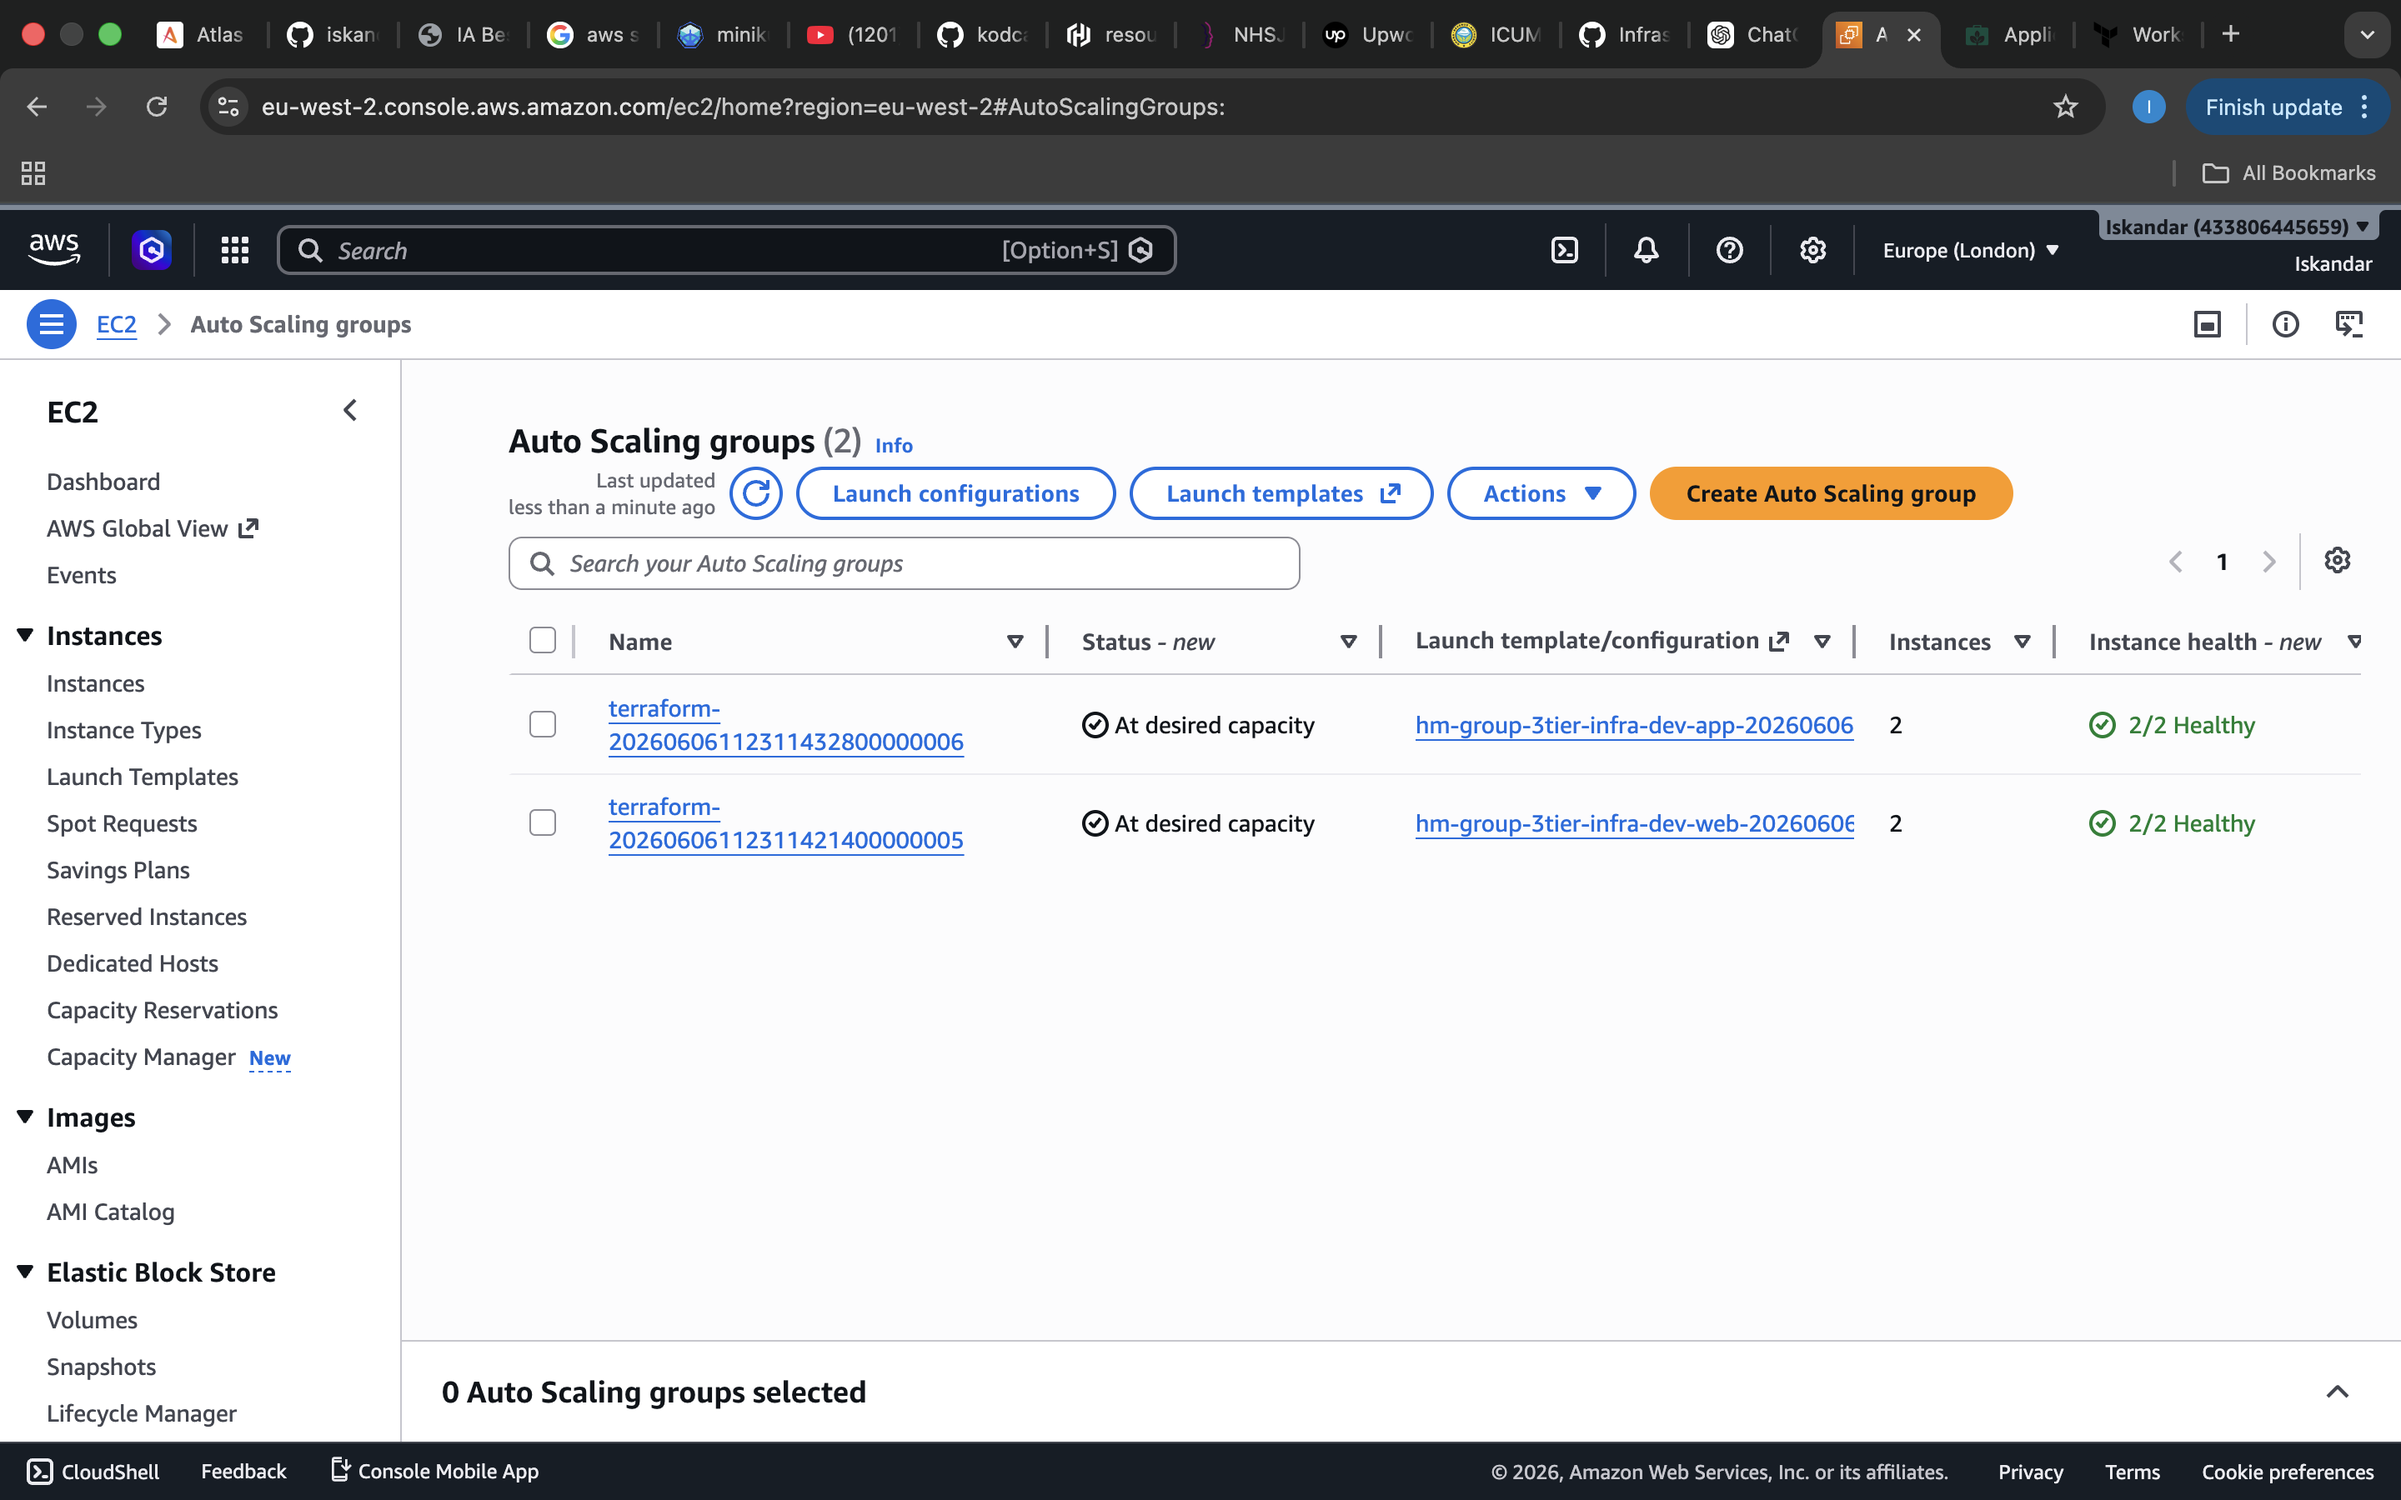
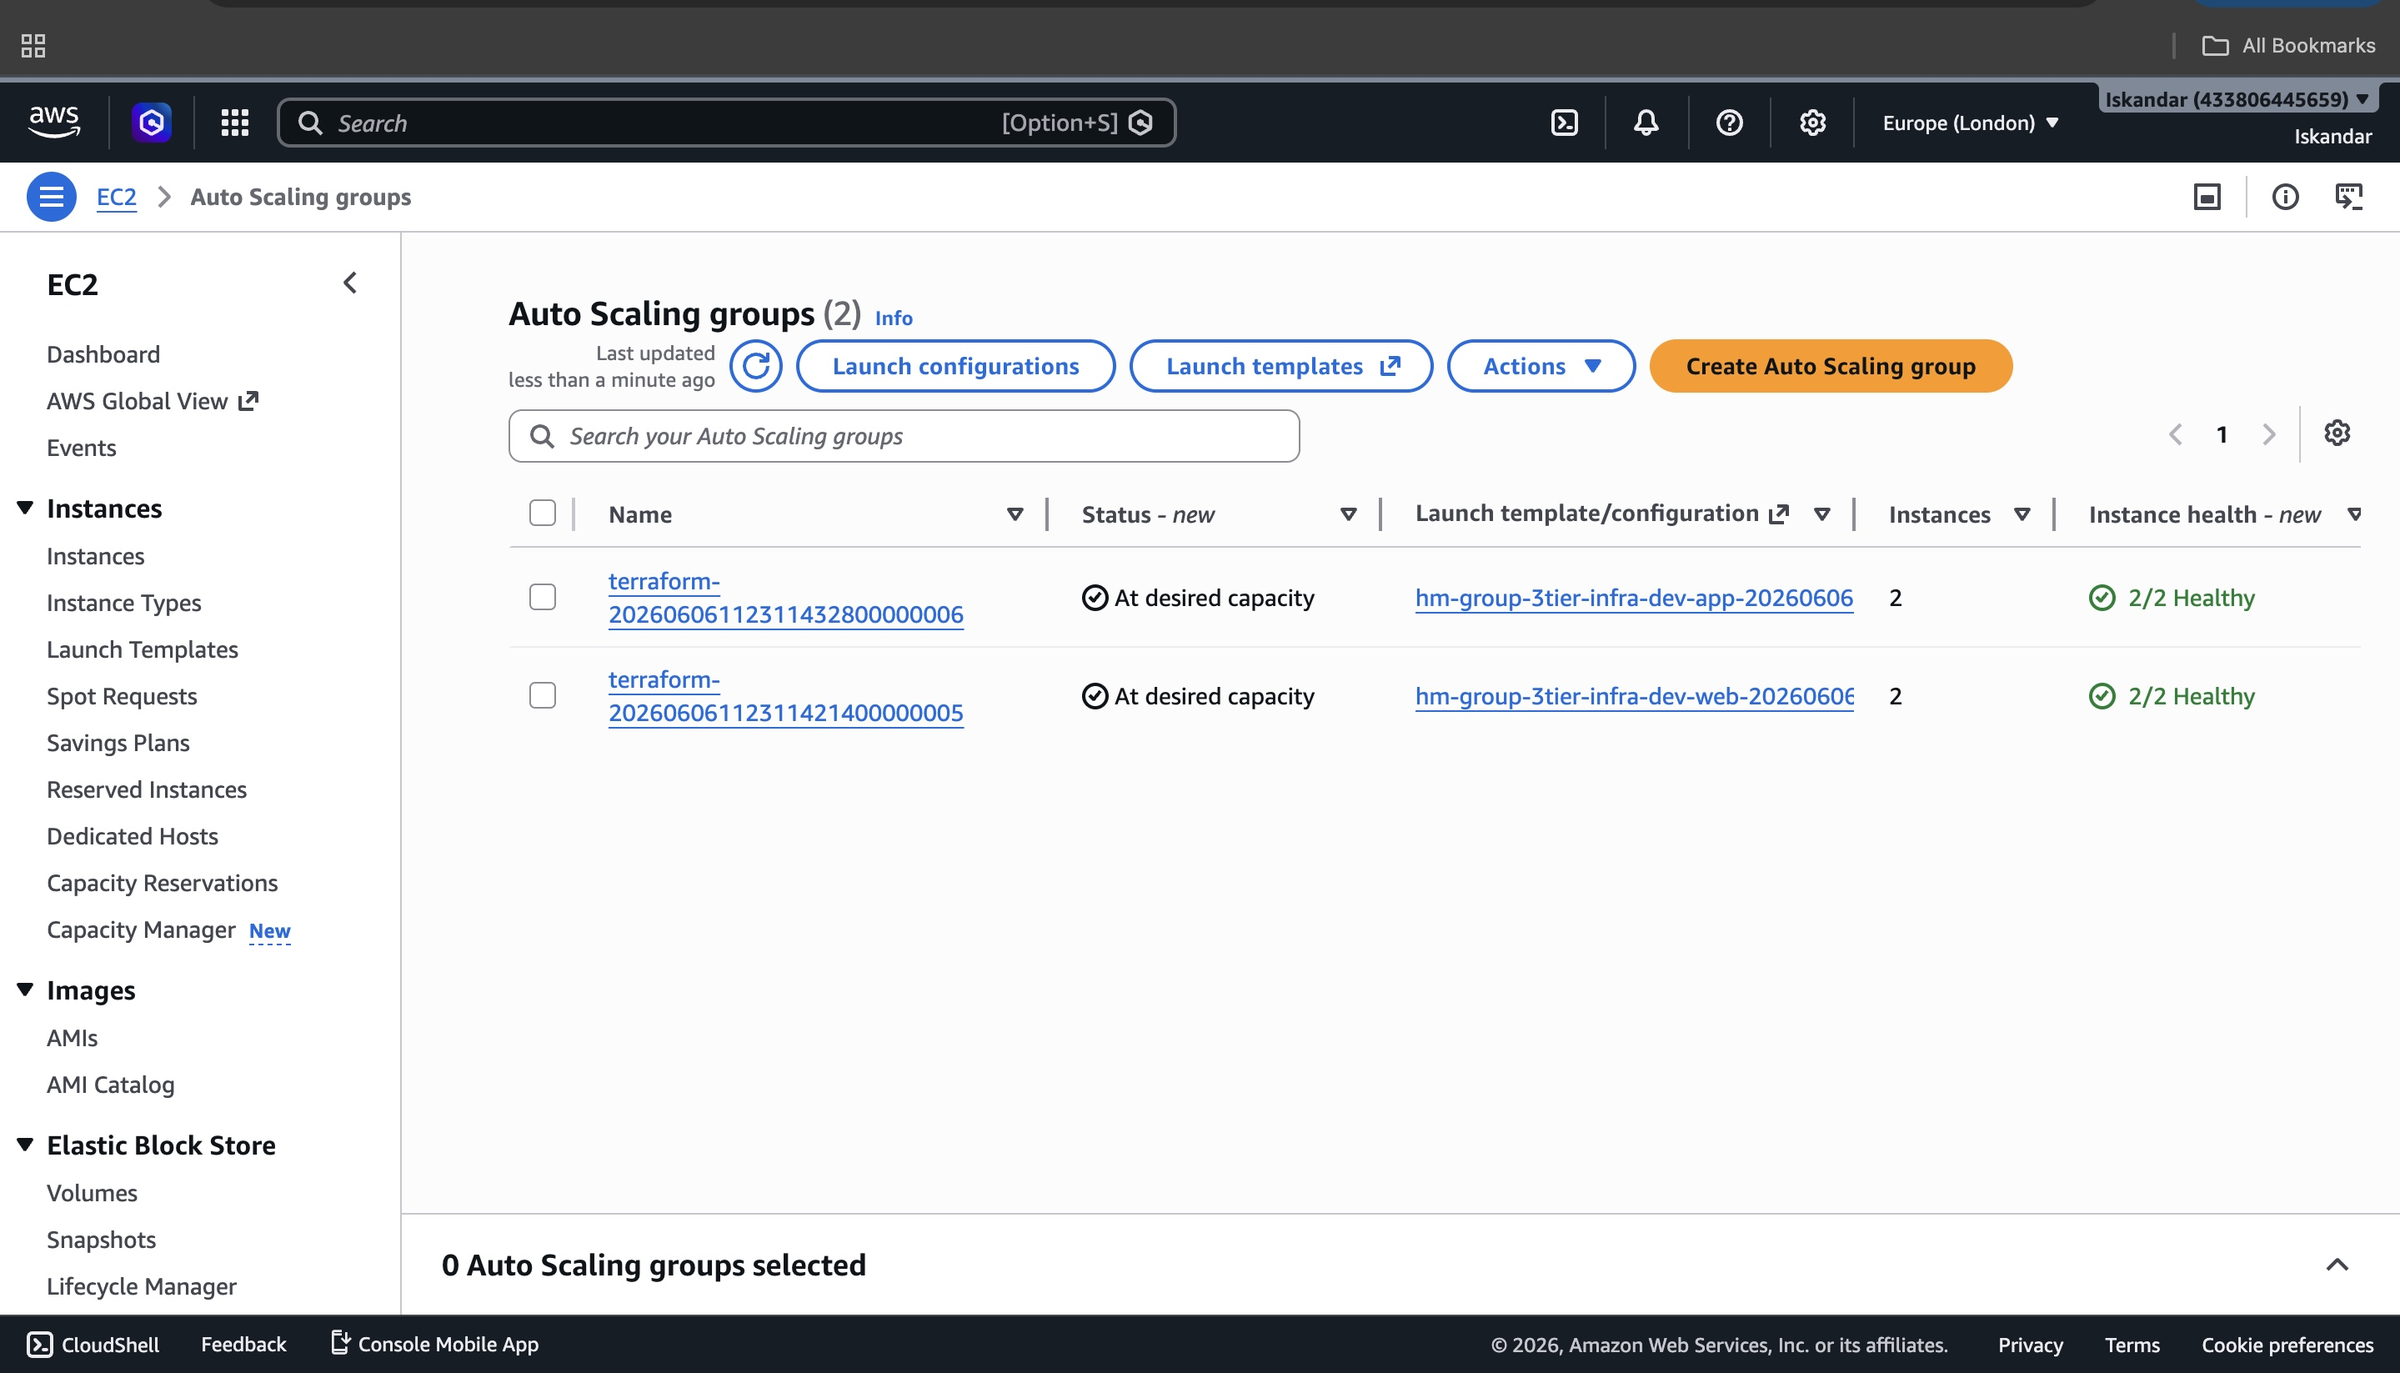
Complete project documentation and module READMEs

diff --git a/README.md b/README.md
@@ -53,3 +53,63 @@ Infrastructure is distributed across two Availability Zones for high availabilit
 * Enforce infrastructure security checks
 * Implement enterprise DevOps practices
 * Demonstrate production-grade AWS architecture
+
+## 📸 Project Screenshots
+
+### 1. GitHub Repository Structure
+
+![GitHub Repository Structure](screenshots/01-github-repo-structure.png)
+
+---
+
+### 2. Terraform Plan Output
+
+![Terraform Plan](screenshots/02-terraform-plan-pr.png)
+
+---
+
+### 3. GitHub Actions CI/CD Pipeline
+
+![GitHub Actions Pipeline](screenshots/03-github-actions-pipeline-a.png)
+
+---
+
+### 4. tfsec Security Scan Results
+
+![tfsec Scan Results](screenshots/04-tfsec-scan-results.png)
+
+---
+
+### 5. Checkov Security Scan Results
+
+![Checkov Scan Results](screenshots/05-checkov-scan-results.png)
+
+---
+
+### 6. Pre-commit Hooks Execution
+
+![Pre-commit Hooks](screenshots/06-pre-commit-hooks-run.png)
+
+---
+
+### 7. AWS VPC Deployment
+
+![AWS VPC](screenshots/07-aws-console-vpc.png)
+
+---
+
+### 8. EC2 Auto Scaling Groups
+
+![EC2 ASG](screenshots/08-aws-console-ec2-asg.png)
+
+---
+
+### 9. Multi-AZ RDS Deployment
+
+![RDS Multi-AZ](screenshots/09-aws-console-rds-multiaz.png)
+
+---
+
+### 10. Application Load Balancers
+
+![Application Load Balancers](screenshots/10-aws-console-alb.png)

diff --git a/modules/alb/README.md b/modules/alb/README.md
@@ -1,0 +1,21 @@
+# ALB Module
+
+## Purpose
+
+This module provisions Application Load Balancers for the HM Group 3-tier AWS infrastructure.
+
+## Resources Created
+
+- Public Application Load Balancer
+- Internal Application Load Balancer
+- Web target group
+- App target group
+- HTTP listeners
+- Health checks
+
+## Key Features
+
+- Internet-facing load balancing for the web tier
+- Internal load balancing for the application tier
+- Target group health checks
+- High availability across multiple subnets

diff --git a/modules/vpc/README.md b/modules/vpc/README.md
@@ -1,0 +1,23 @@
+# VPC Module
+
+## Purpose
+
+This module provisions the networking foundation for the HM Group 3-tier AWS infrastructure.
+
+## Resources Created
+
+- VPC
+- Public subnets
+- Private application subnets
+- Private database subnets
+- Internet Gateway
+- NAT Gateway
+- Route tables
+- Route table associations
+
+## Key Features
+
+- Multi-AZ network design
+- Public and private subnet segmentation
+- Secure database subnet isolation
+- Controlled outbound access through NAT Gateway

diff --git a/modules/security-groups/README.md b/modules/security-groups/README.md
@@ -1,0 +1,18 @@
+# Security Groups Module
+
+## Purpose
+
+This module provisions tier-based Security Groups for the HM Group 3-tier AWS infrastructure.
+
+## Resources Created
+
+- Web tier Security Group
+- Application tier Security Group
+- Database tier Security Group
+
+## Key Features
+
+- Internet access restricted to the web tier
+- Application tier access limited to web tier traffic
+- Database access limited to application tier traffic
+- Least privilege network security design

diff --git a/modules/ec2/README.md b/modules/ec2/README.md
@@ -1,0 +1,20 @@
+# EC2 Module
+
+## Purpose
+
+This module provisions EC2 Launch Templates and Auto Scaling Groups for the HM Group infrastructure.
+
+## Resources Created
+
+- Web tier launch template
+- App tier launch template
+- Web Auto Scaling Group
+- App Auto Scaling Group
+
+## Key Features
+
+- Auto Scaling for high availability
+- Launch template-based deployments
+- Dynamic EC2 provisioning
+- Integration with Application Load Balancers
+- Multi-AZ deployment support

diff --git a/modules/rds/README.md b/modules/rds/README.md
@@ -1,0 +1,19 @@
+# RDS Module
+
+## Purpose
+
+This module provisions the database layer for the HM Group 3-tier AWS infrastructure.
+
+## Resources Created
+
+- RDS MySQL database
+- DB subnet group
+- Multi-AZ standby deployment
+
+## Key Features
+
+- Multi-AZ high availability
+- Private database deployment
+- Encrypted storage
+- Database subnet isolation
+- Security group integration

diff --git a/modules/iam/README.md b/modules/iam/README.md
@@ -1,0 +1,18 @@
+# IAM Module
+
+## Purpose
+
+This module provisions IAM roles and instance profiles for the HM Group infrastructure.
+
+## Resources Created
+
+- EC2 IAM role
+- EC2 instance profile
+- IAM policy attachments
+
+## Key Features
+
+- Secure EC2 role assignment
+- AWS Systems Manager access
+- Least privilege access model
+- Instance profile integration for EC2 resources
